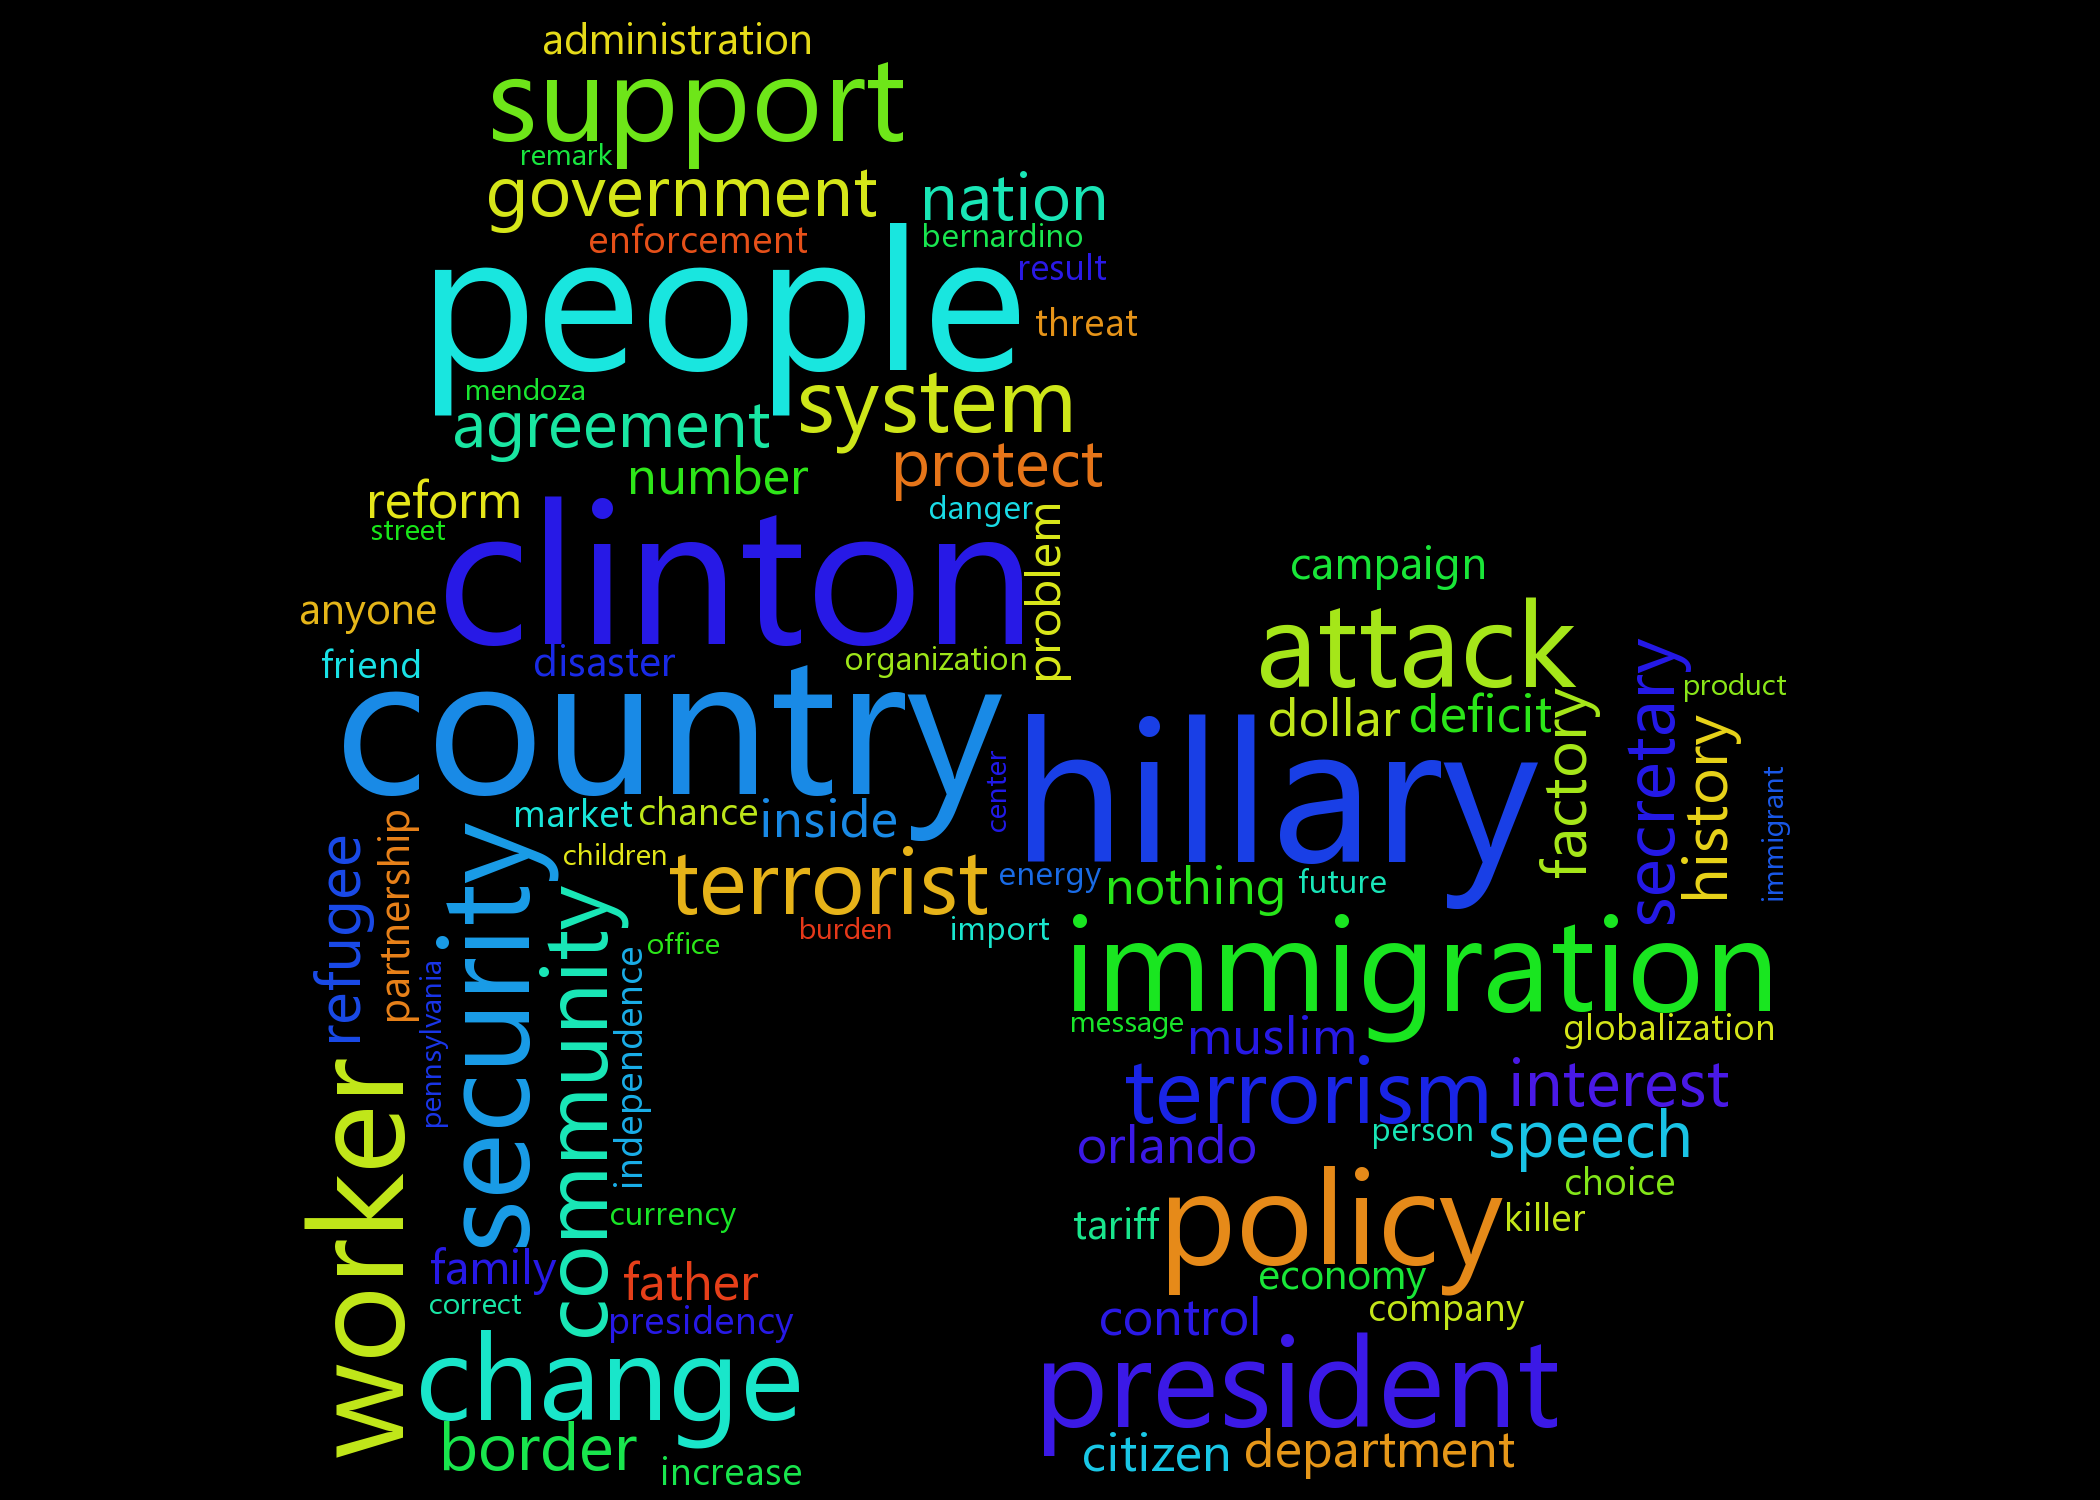
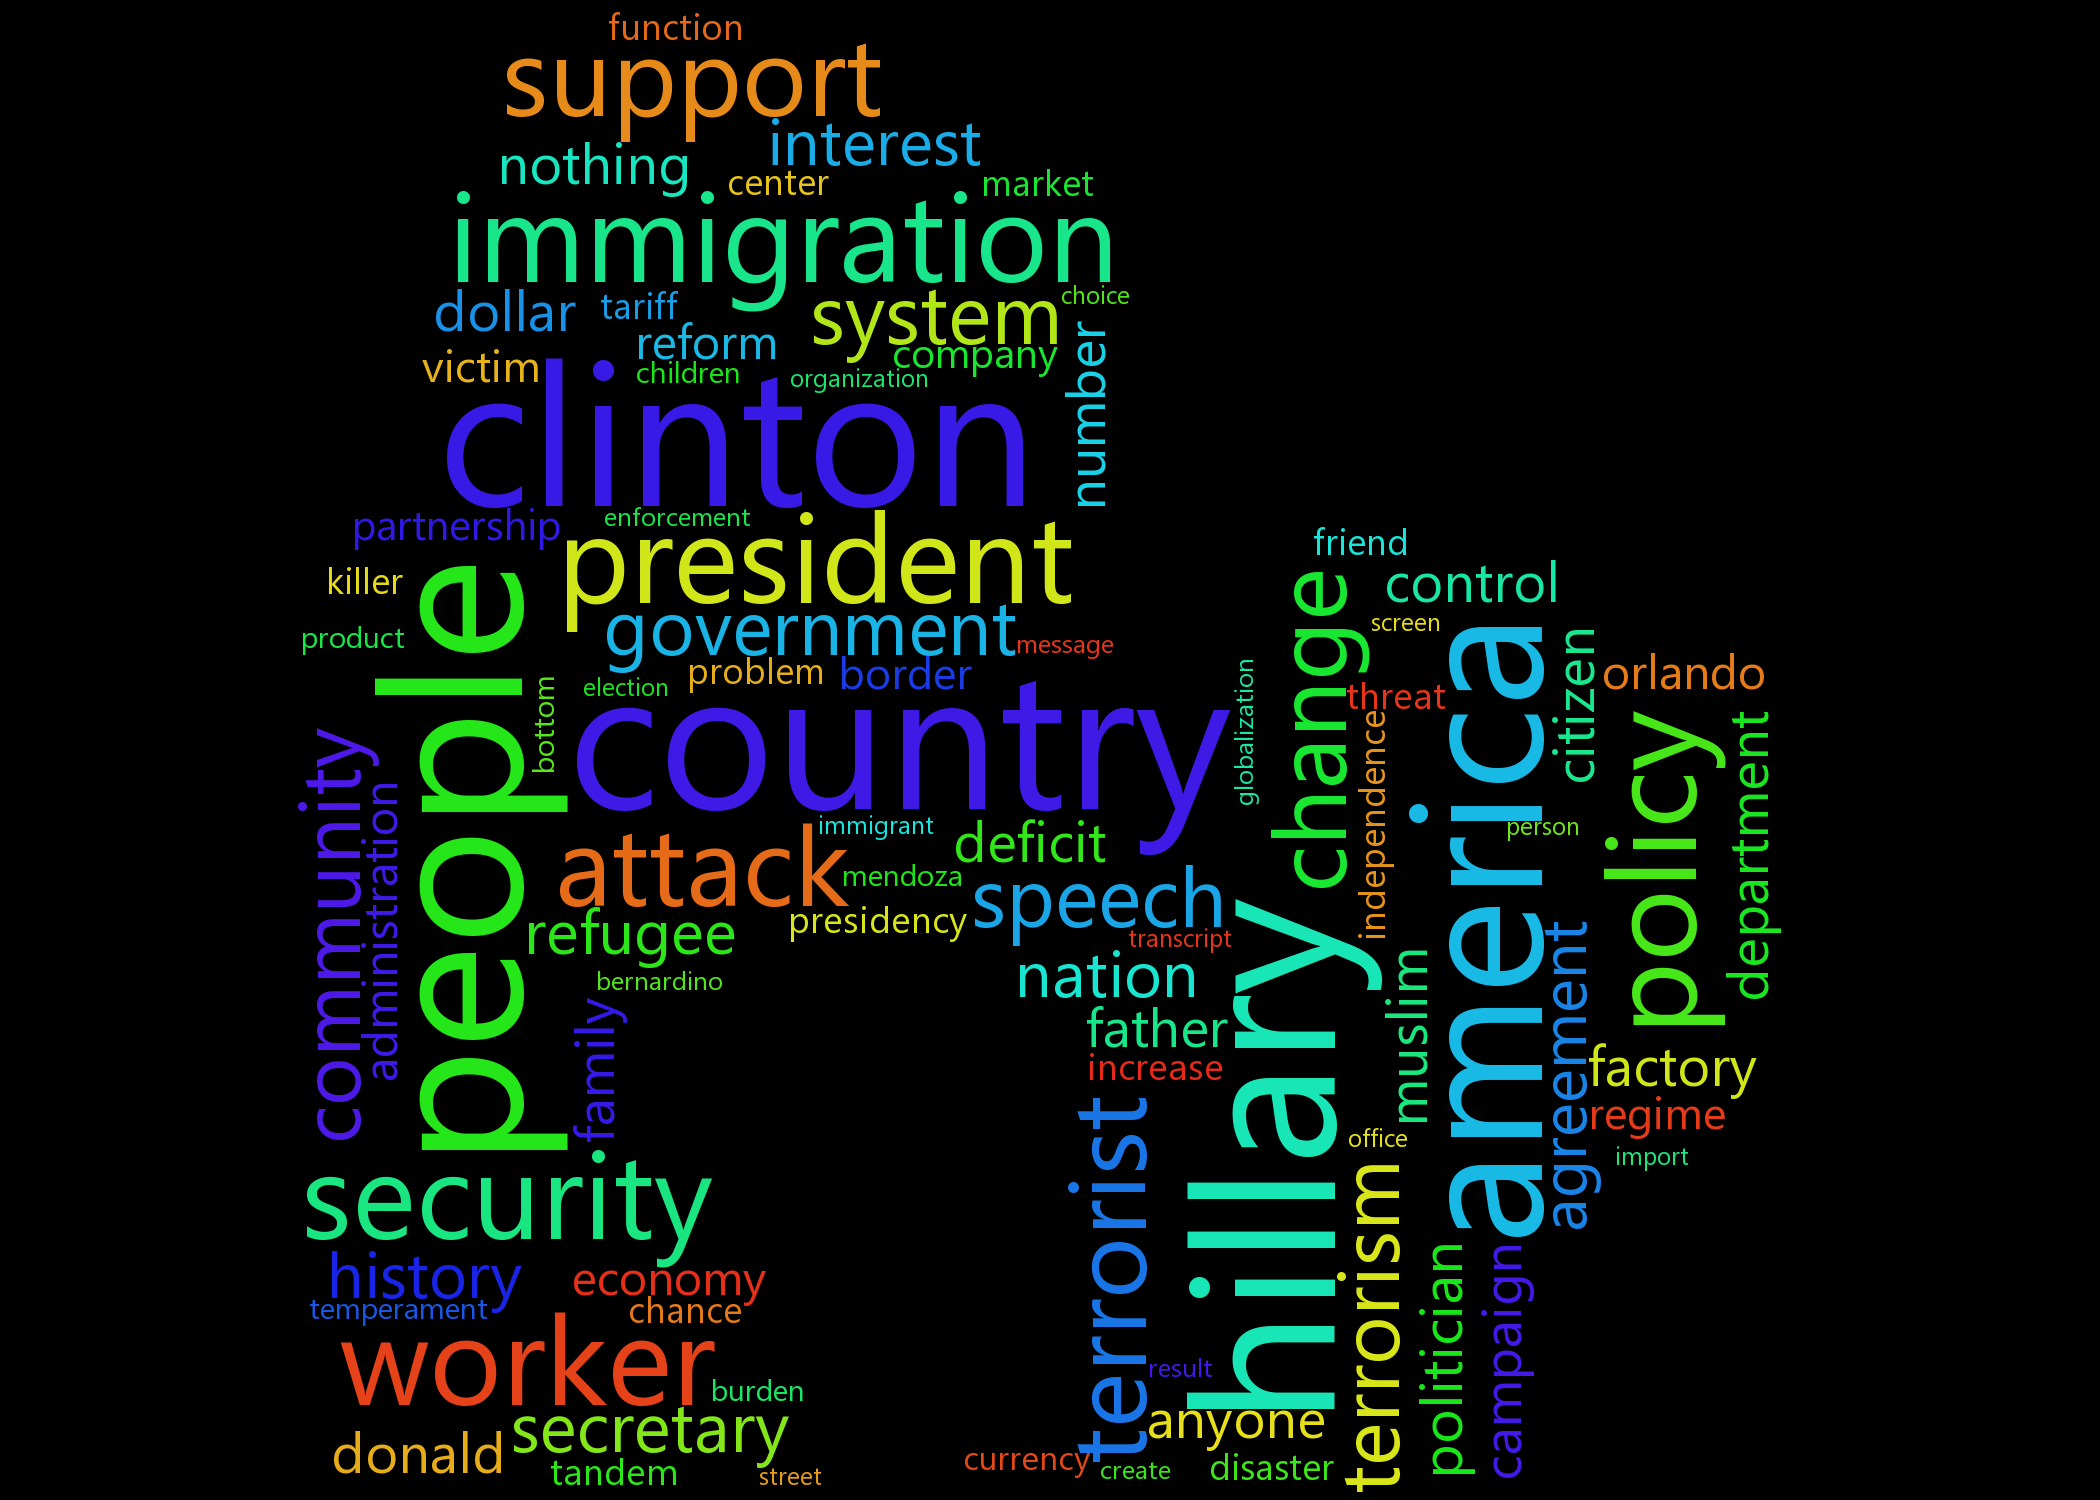
refactored and improved

Changed region(s): [[0.1238, 0.0, 0.8667, 1.0]]

diff --git a/trump_common_words.py b/trump_common_words.py
@@ -1,7 +1,7 @@
 
 # coding: utf-8
 
-# In[2]:
+# In[4]:
 
 import nltk, re, pprint
 from nltk import word_tokenize, sent_tokenize
@@ -16,10 +16,12 @@ from os import path
 from PIL import Image
 import numpy as np
 
+
 url_1 = "http://www.politico.com/story/2016/06/transcript-donald-trump-national-security-speech-224273"
 url_2 = "http://www.politico.com/story/2016/06/transcript-trump-speech-on-the-stakes-of-the-election-224654"
 url_3 = "http://www.politico.com/story/2016/06/full-transcript-trump-job-plan-speech-224891"
 
+# Just getting a text with a link
 def get_text(link):
     text = request.urlopen(link).read().decode('utf8')
     text = BeautifulSoup(text, "lxml").get_text()
@@ -27,6 +29,7 @@ def get_text(link):
     text = re.sub('\s+', ' ', text)
     return text
 
+# Function for getting frequent words without frequency numbers
 def freq_words(cutted_text, n):
     freqdist = nltk.FreqDist(word.lower() for word in word_tokenize(cutted_text))
     result = []
@@ -35,29 +38,41 @@ def freq_words(cutted_text, n):
              result = result + [word]
     return result
 
-
+# Function for tokenizing, stemming and fixing some stemming bugs
 def tokenizing_and_stemming(url, start, finish):
     raw = get_text(url)
     raw = raw[start:finish]
     tokens_1 = word_tokenize(raw)
     stemmer = SnowballStemmer("english", ignore_stopwords=True)
     tokens_2 = []
-    exception_list = ['perhaps','disastrous', 'overseas']
     for each in tokens_1:
         if each=='death':
              tokens_2.append('living')
-        if each=='possibilities':
+        elif each=='betrayed':
+             tokens_2.append('appreciated') 
+        elif each=='failed':
+             tokens_2.append('succeeded')  
+        elif each=='single':
+             tokens_2.append('tandem')         
+        elif each=='possibilities':
              tokens_2.append('possibility')
         elif each=='governments':
              tokens_2.append('government')
+        elif each=='understand':
+             tokens_2.append('understanding')
+        elif each=='includ':
+             tokens_2.append('include')
         elif each.startswith('immigr') and not each.endswith('ant'):
-             tokens_2.append('immigration')  
+             tokens_2.append('immigration') 
+        elif each.startswith('contempl'):
+             tokens_2.append('contemplate') 
         elif each.startswith('refuge'):
              tokens_2.append('refugee')  
         elif each.startswith('speach') and not each.endswith('ch'):
              tokens_2.append('speachless')          
-        elif each not in exception_list and each.endswith('s') or each.endswith('ies'):
-              tokens_2.append(stemmer.stem(each))
+        elif (not each.endswith('aps') and not each.endswith('ous') and not each.endswith('eas')
+             and each.endswith('s') or each.endswith('ies')):
+                 tokens_2.append(stemmer.stem(each))
         else:
              tokens_2.append(each)
     tokens = []            
@@ -75,9 +90,43 @@ def tokenizing_and_stemming(url, start, finish):
 text_1, raw_1, tokens_1 = tokenizing_and_stemming(url_1,13745,31980)
 text_2, raw_2, tokens_2 = tokenizing_and_stemming(url_2,13464,33190)
 text_3, raw_3, tokens_3 = tokenizing_and_stemming(url_3,13506,28425)
-# Getting 500 most common words tagged with specific part of speach 
-tagged_five_hundred_freq = nltk.pos_tag(freq_words((raw_1+raw_2+raw_3), 500))
 
+# Getting 1000 most common words tagged with specific part of speach (first ordinary tagging) 
+freq1000 = freq_words((raw_1+raw_2+raw_3), 1000)
+tagged_thousand_freq = nltk.pos_tag(freq1000)
+
+# Making patterns for second improved tagging
+pats = [
+        (r'.*(believe|declare|become|reject|discuss|protect|prevent)$', 'VB'),
+        (r'.*(threaten|withdraw|imagine|continue|appoint)$', 'VB'),
+        (r'.*(ment|ist|ee|tion|ant|thing|ound|cian)$', 'NN'),
+        (r'.*(message|father|friend|refugee|muslim|speech)$', 'NN'), 
+        (r'.*(server|service|screen|ambassador|regime)$', 'NN'),    
+        (r'.*(killer|shooter|citizen|victim|september|november)$', 'NN'),    
+        (r'.*(hillary|mendoza|orlando|donald|kasich|arabia)$', 'NNP'), 
+        (r'.*(mexico|bernie|pennsylvania|america|afghanistan)$', 'NNP'),
+        (r'.*ing$', 'VBG'),
+        (r'.*ed$', 'VBD'),
+        (r'.*(tonight|overseas|aram|where|sand)$', 'RB'),
+        (r'.*(google|politico|facebook|twitter)$', 'AAA')
+
+         ]
+regexp_tagger = nltk.RegexpTagger(pats)
+
+# Tagging only selected(which correspond to pattern) words
+reg_tagged_thousand_freq = regexp_tagger.tag(freq1000)
+
+# Changing tags after first tagging with tags after second tagging(for words which correspond to patterns)
+
+for word, tag in sorted(tagged_thousand_freq):
+    for word_, tag_ in sorted(reg_tagged_thousand_freq):
+        if tag_!=None and word==word_:
+            tagged_thousand_freq.remove((word,tag))
+            tagged_thousand_freq.append((word_,tag_))
+            
+        
+
+# Selecting specific parts of the words (e.g nouns, verbs..)
 def pos_tagger(tagged_words, condition):
     parts = []
     for w,t in tagged_words:
@@ -85,54 +134,33 @@ def pos_tagger(tagged_words, condition):
                     parts.append(w)
     return parts 
 
+# Defining condition lists
 nouns = ['NN', 'NNP','NNS']
 verbs = ['VB','VBD','VBG','VBN','VBP','VBZ']
 adjectives = ['JJ','JJR','JJS']
 
+# General function for appending something to some list
 def appending(result_list, what_to_append):
     for each in what_to_append:
         result_list.append(each)
-        
-def common_words_with_frequency(tagged_five_hundred_freq, raw, condition_list):
+
+# Function for selecting specific parts of the words with their frequency + fixing some tagging bugs
+def common_words_with_frequency(tagged_thousand_freq, raw, condition_list):
     words = []
     for i in range(0, len(condition_list)):
-        appending(words, pos_tagger((tagged_five_hundred_freq), condition_list[i]))
+        appending(words, pos_tagger((tagged_thousand_freq), condition_list[i]))
     
-    nn_list = ['father','hillary','friend','mendoza','immigrant','immigration','orlando'
-               ,'terrorist','increase','refugee','muslim','speech']    
-    if 'NN' in condition_list:
-        for i in range(0,len(nn_list)):
-            if nn_list[i] not in words:
-                words.append(nn_list[i])
-                
-    jj_list = ['terrorist','hillary','citizen','immigrant','friend','mendoza','immigration'
-               ,'orlando','father','become','increase','reject','single','discuss','refugee']    
-    if 'JJ' in condition_list:
-        for i in range(0,len(jj_list)):
-            if jj_list[i] in words:
-                words.remove(jj_list[i])
-        
-    vb_list = ['regime','america','refugee','muslim','speech','terrorist']  
-    vb_list_a = ['become','reject','discuss'] 
-    if 'VB' in condition_list:
-        for i in range(0,len(vb_list)):
-            if vb_list[i] in words:
-                words.remove(vb_list[i]) 
-        for i in range(0,len(vb_list_a)):
-            if vb_list_a[i] not in words:
-                words.append(vb_list_a[i])         
-           
     freqdist = nltk.FreqDist(word.lower() for word in word_tokenize(raw) if len(word)>=5)
     freq_with_counts = freqdist.most_common(1000)
     our_words = [item for item in freq_with_counts if item[0] in words if item[1]!=1]
     return our_words
 
 # Getting most frequent nouns with some names with their frequencies
-all_nouns = common_words_with_frequency(tagged_five_hundred_freq, (raw_1+raw_2+raw_3), nouns)
+all_nouns = common_words_with_frequency(tagged_thousand_freq, (raw_1+raw_2+raw_3), nouns)
 all_nouns = [item for item in all_nouns if item[1]>3]
-all_verbs = common_words_with_frequency(tagged_five_hundred_freq, (raw_1+raw_2+raw_3), verbs)
+all_verbs = common_words_with_frequency(tagged_thousand_freq, (raw_1+raw_2+raw_3), verbs)
 all_verbs = [item for item in all_verbs if item[1]>=2]
-all_adjectives = common_words_with_frequency(tagged_five_hundred_freq, (raw_1+raw_2+raw_3), adjectives)
+all_adjectives = common_words_with_frequency(tagged_thousand_freq, (raw_1+raw_2+raw_3), adjectives)
 all_adjectives = [item for item in all_adjectives if item[1]>=3]
 freqdist = nltk.FreqDist(word.lower() for word in word_tokenize(raw_1+raw_2+raw_3) if len(word)>=5)
 all_words = freqdist.most_common(1000)
@@ -155,15 +183,14 @@ all_verbs_string = convert_to_string(all_verbs)
 all_adjectives_string = convert_to_string(all_adjectives)
 all_words_string = convert_to_string(all_words)
 
+# Function for generating wordcloud 
 def generate_wordcloud(our_string, name):
     kiss_me = np.array(Image.open("kiss_me_.png"))
     wordcloud = WordCloud(font_path='C:\Windows\Boot\Fonts\malgun_boot.ttf',
                           stopwords=None,
                           background_color='black',
                           mask=kiss_me
-                          #width=1200,
-                          #height=1000
-                         ).generate(our_string)
+                          ).generate(our_string)
 
     wordcloud.to_file('%s' %name)
     plt.imshow(wordcloud)
